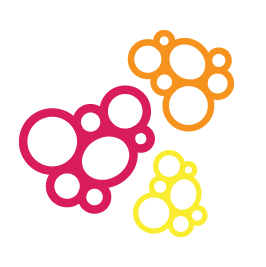
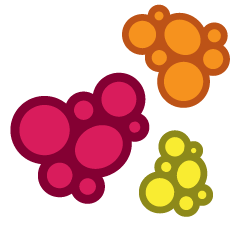
affald ændret til rigtige billede

diff --git a/css/infographic.css b/css/infographic.css
@@ -86,7 +86,7 @@ section.infograph-topics.food {
 }
 .infograph-topics {
     
-    padding-top: 0;
+    padding-top: 0%;
     padding-left: 2rem;
     display: flex;
     justify-content: start;
@@ -101,6 +101,8 @@ section.infograph-topics.food {
 
 .food {
     padding-top: 10.5rem;
+
+
 }
 
 .waste {

diff --git a/infographic.html b/infographic.html
@@ -70,7 +70,7 @@
             </section>
         </section>
 
-        <a href="game1-food.html" class="spil-btn">Spil -></a>
+        <a href="game1-food.html" class="spil-btn">Spil →</a>
 
     </div>
     </main>
